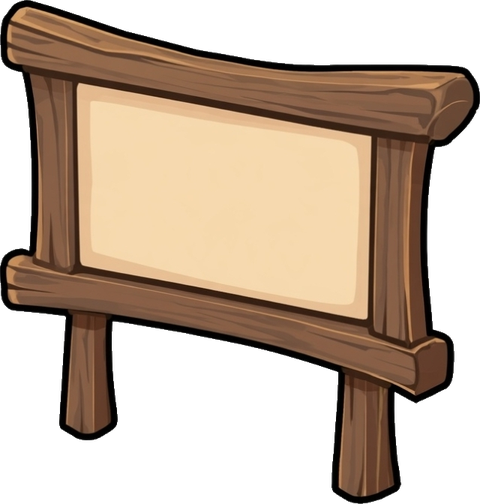
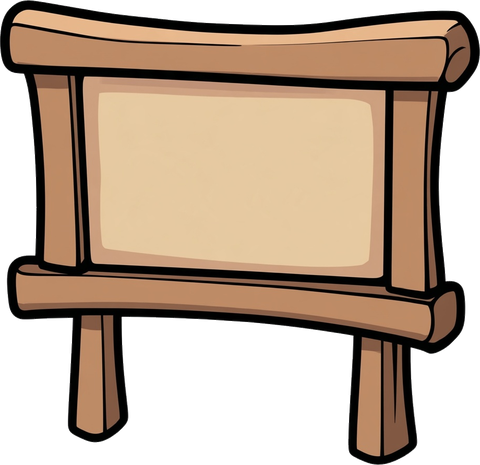
광장: 게시판을 새 나무 게시판 그림으로 · 크기 줄임 · 압정으로 꽂은 메모지 3장 (마을 게시판 · 투표 곧 열려요 · 공지) · 가운데 흙 광장도 작게
Claude-Session: https://claude.ai/code/session_01FJjmZS4UAcAfVvvFLL5GtA

diff --git a/src/styles.css b/src/styles.css
@@ -9826,11 +9826,15 @@ html.pz-open .mcal-btn, html.pz-open .mcal-pop { display: none; }
 .pz-tint.dusk { fill: rgb(255, 140, 65); opacity: calc(var(--dusk) * 0.3); }
 .pz-tint.night { fill: rgb(70, 90, 170); opacity: calc(var(--dark) * 0.3); }
 
-/* 마을 게시판 (그림: public/plaza/board.png · 종이 = 왼 16% 위 20% ~ 오른 77% 아래 60%) */
-.pz-field > .pz-board { width: clamp(170px, 24vmin, 280px); display: block; }
-.pz-board img { width: 100%; display: block; user-select: none; filter: drop-shadow(0 6px 4px rgba(0, 0, 0, 0.2)); }
-.pz-board-paper { position: absolute; left: 16%; top: 20%; width: 61%; height: 40%; transform: rotate(4deg); display: flex; flex-direction: column; align-items: center; justify-content: center; gap: 2px; color: #5a3b22; text-align: center; line-height: 1.25; }
-.pz-board-paper b { font-size: clamp(12px, 1.9vmin, 17px); }
-.pz-board-paper span { font-size: clamp(10px, 1.5vmin, 13px); }
-.pz-board-paper small { font-size: clamp(9px, 1.25vmin, 11px); opacity: 0.7; }
-@media (max-aspect-ratio: 4/5) { .pz-field > .pz-board { width: 40vw; } }
+/* 마을 게시판 (그림: public/plaza/board.png · 종이 = 왼 18% 위 17% ~ 오른 80% 아래 59%) + 붙여 둔 메모지 */
+.pz-field > .pz-board { width: clamp(130px, 17vmin, 210px); display: block; }
+.pz-board img { width: 100%; display: block; user-select: none; filter: drop-shadow(0 5px 3px rgba(0, 0, 0, 0.2)); }
+.pz-board-paper { position: absolute; left: 18%; top: 17%; width: 62%; height: 42%; container-type: inline-size; }
+.pz-note { position: absolute; display: flex; flex-direction: column; justify-content: center; text-align: center; font-family: var(--serif); font-weight: 700; color: #4a3b22; line-height: 1.15; font-size: 9.5cqw; padding: 4cqw 3cqw 3cqw; box-shadow: 1px 2px 3px rgba(0, 0, 0, 0.25); }
+.pz-note i { position: absolute; top: -3cqw; left: 50%; width: 6cqw; height: 6cqw; margin-left: -3cqw; border-radius: 50%; background: radial-gradient(circle at 35% 35%, #ff8a8a, #c92a2a); box-shadow: 0 1px 1px rgba(0, 0, 0, 0.35); }
+.pz-note.n1 { left: 4%; top: 10%; width: 34%; height: 74%; background: #fff3a3; transform: rotate(-6deg); }
+.pz-note.n2 { left: 42%; top: 4%; width: 52%; height: 50%; background: #ffd6e0; transform: rotate(4deg); }
+.pz-note.n2 i { background: radial-gradient(circle at 35% 35%, #8ac6ff, #1c6fc9); }
+.pz-note.n3 { left: 48%; top: 60%; width: 40%; height: 36%; background: #d3f0ff; transform: rotate(-3deg); }
+.pz-note.n3 i { background: radial-gradient(circle at 35% 35%, #9be59b, #2f9e44); }
+@media (max-aspect-ratio: 4/5) { .pz-field > .pz-board { width: 30vw; } }

diff --git a/src/pages/Plaza.tsx b/src/pages/Plaza.tsx
@@ -130,7 +130,7 @@ function Ground({ w, h, tall }: { w: number; h: number; tall: boolean }) {
   const cy = (h * g.y0) / 100;
   const rx = (w * g.rx) / 100;
   const ry = (h * g.ry) / 100;
-  const plazaR = Math.min(w, h) * 0.16;
+  const plazaR = Math.min(w, h) * 0.12;
   // 꾸미기: 길 · 광장 · 물류센터 · 위 줄을 피해서
   const deco = useMemo(() => {
     const rand = rng(Math.round(w) * 7 + Math.round(h));
@@ -492,9 +492,22 @@ export default function Plaza() {
         <div className="pz-board" title="마을 게시판 · 투표 · 공지 (준비 중)">
           <img src="./plaza/board.png" alt="" draggable={false} />
           <div className="pz-board-paper">
-            <b>📌 마을 게시판</b>
-            <span>투표 · 공지</span>
-            <small>곧 열려요</small>
+            <span className="pz-note n1">
+              <i />
+              마을
+              <br />
+              게시판
+            </span>
+            <span className="pz-note n2">
+              <i />
+              🗳 투표
+              <br />
+              곧 열려요
+            </span>
+            <span className="pz-note n3">
+              <i />
+              📢 공지
+            </span>
           </div>
         </div>
 
